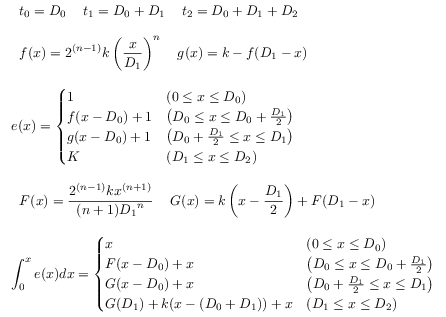
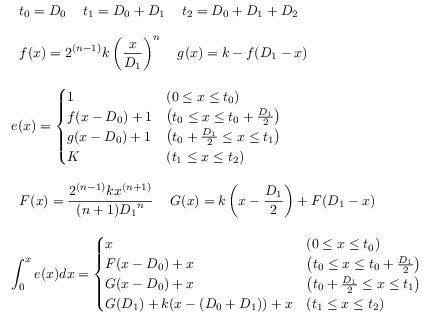
Correct wrong x range on LaTeX file

diff --git a/sweep/formula_1.tex b/sweep/formula_1.tex
@@ -22,13 +22,13 @@
   $
     \displaystyle e(x) = \begin{cases}
       1
-        & (0 \leq x \leq D_0) \\
+        & (0  \leq x \leq t_0) \\
       f(x - D_0) + 1
-        & \left(D_0 \leq x \leq D_0 + \frac{D_1}{2}\right) \\
+        & \left(t_0 \leq x \leq t_0 + \frac{D_1}{2}\right) \\
       g(x - D_0) + 1
-        & \left(D_0 + \frac{D_1}{2} \leq x \leq D_1\right) \\
+        & \left(t_0 + \frac{D_1}{2} \leq x \leq t_1\right) \\
       K
-        & (D_1 \leq x \leq D_2)
+        & (t_1 \leq x \leq t_2)
     \end{cases}
   $
   \\ \\
@@ -40,13 +40,13 @@
   $
     \displaystyle \int_0^x e(x) dx = \begin{cases}
       x              
-        & (0  \leq x \leq D_0) \\
+        & (0  \leq x \leq t_0) \\
       F(x - D_0) + x
-        & \left(D_0 \leq x \leq D_0 + \frac{D_1}{2}\right) \\
+        & \left(t_0 \leq x \leq t_0 + \frac{D_1}{2}\right) \\
       G(x - D_0) + x
-        & \left(D_0 + \frac{D_1}{2} \leq x \leq D_1\right) \\
+        & \left(t_0 + \frac{D_1}{2} \leq x \leq t_1\right) \\
       G(D_1) + k(x - (D_0 + D_1)) + x
-        & (D_1 \leq x \leq D_2)
+        & (t_1 \leq x \leq t_2)
     \end{cases}
   $ 
 \end{tabular}
